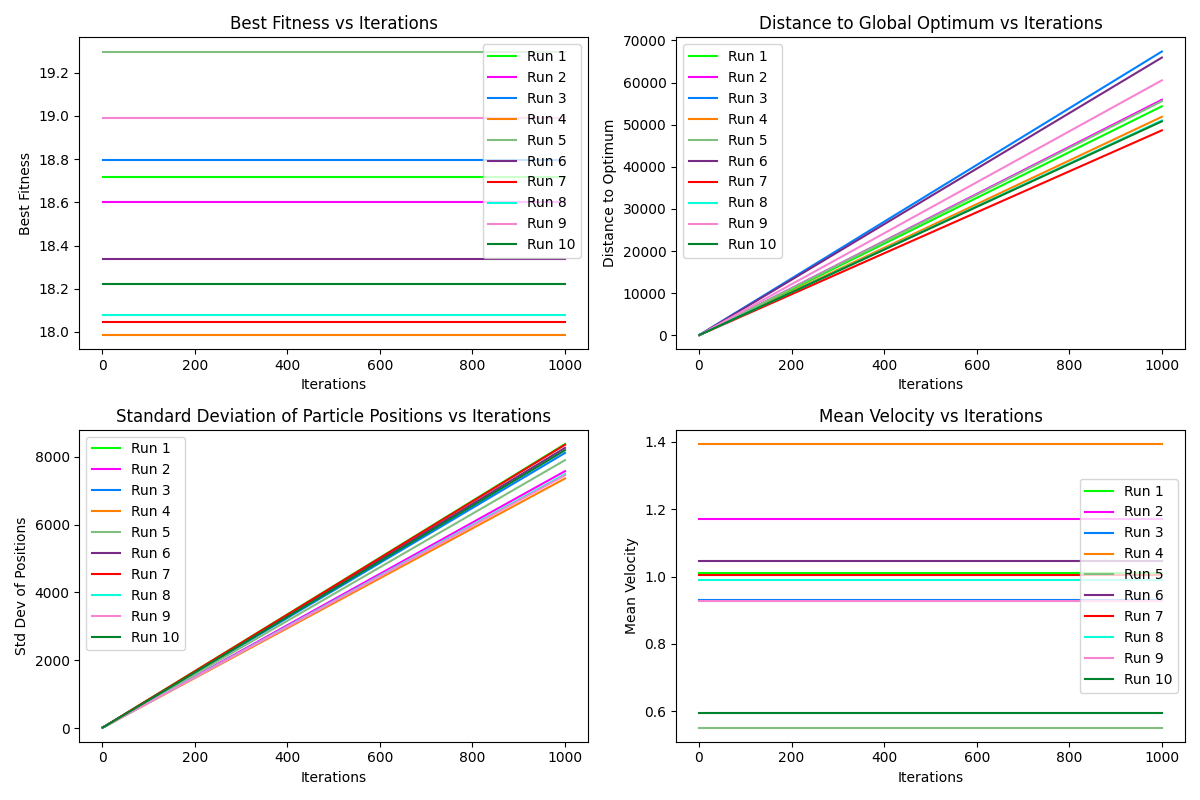
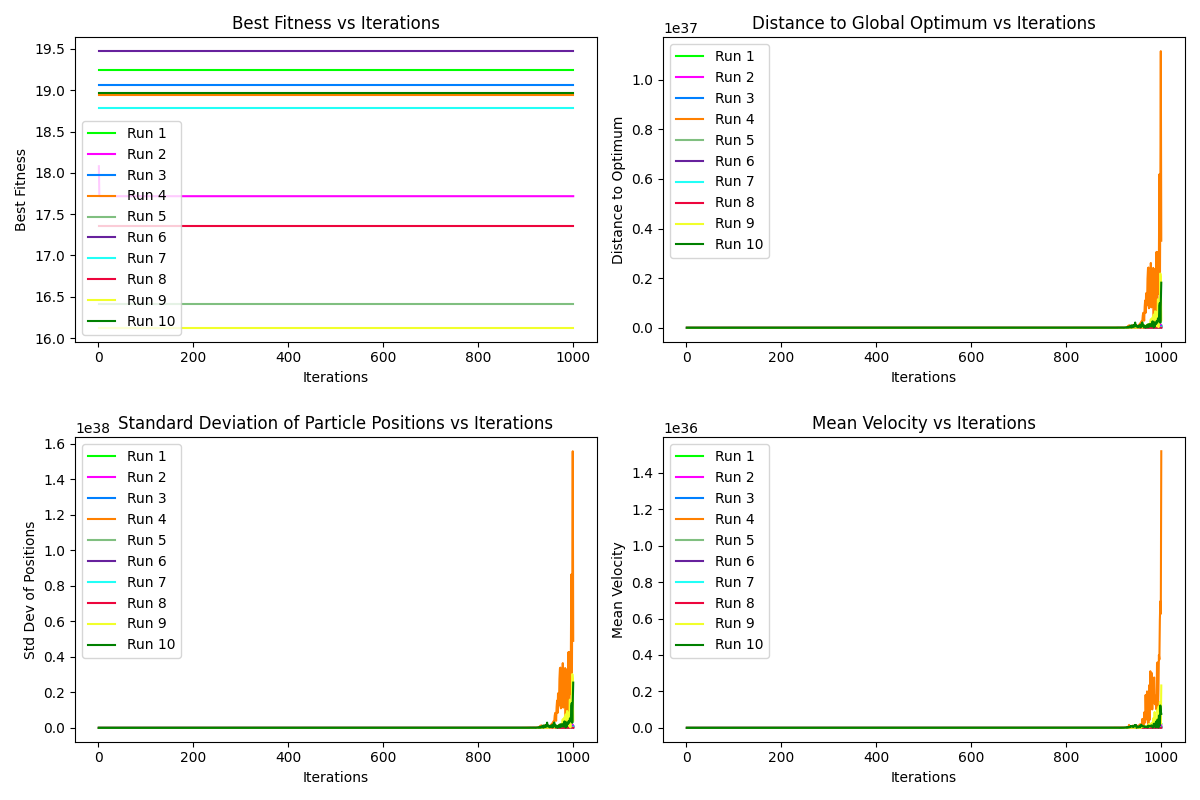
fixed stddev bug

diff --git a/run_experiments.py b/run_experiments.py
@@ -4,8 +4,6 @@ import metrics_and_visualization as mv
 from pso_variants import Particle, PSO, GlobalBestTopology, inertia_weight_PSO, RingTopology, StarTopology, RandomNeighbourhoodConnectivity
 import os
 
-# Requirement 6
-
 
 def run_experiment(swarm_size, num_runs=10, pso_type="standard",topology_type="gbest", file_name="metrics_std_pso.png"):
     num_particles = swarm_size
@@ -50,22 +48,38 @@ def run_experiment(swarm_size, num_runs=10, pso_type="standard",topology_type="g
     plt.savefig("results/" + file_name)
 
 
+#run_experiment(5,num_runs=1,file_name="metrics_std_pso.png")
+
 #part6 
 run_experiment(30,file_name="metrics_std_pso.png")
-run_experiment(30,pso_type="inertia",file_name="metrics_std_pso_weight adjust.png")
+run_experiment(30,pso_type="inertia",file_name="metrics_std_pso_weight_adjust.png")
 
-"""
+
 #part7
 run_experiment(20,file_name="metrics_std_pso_swarm20.png")
 run_experiment(100,file_name="metrics_std_pso_swarm100.png")
 run_experiment(200,file_name="metrics_std_pso_swarm200.png")
 
 #part8 
-run_experiment(30,pso_type="inertia",file_name="metrics_std_pso_weight adjust.png")
+run_experiment(30,pso_type="inertia",file_name="metrics_std_pso_weight_adjust.png")
 
 #part9 
 run_experiment(30, file_name="metrics_std_pso_topo_gbest.png")
 run_experiment(30,topology_type="ring", file_name="metrics_std_pso_topo_ring.png")
 run_experiment(30,topology_type="star", file_name="metrics_std_pso_topo_star.png")
 run_experiment(30,topology_type="rand", file_name="metrics_std_pso_topo_rand.png")
-"""
+
+#part10
+#try 100 ring inertia
+run_experiment(100,topology_type="ring",pso_type="inertia", file_name="metrics_weight_adjust_pso_topo_ring_swarm100.png")
+
+#try 200 star standard
+run_experiment(200,topology_type="star", file_name="metrics_std_pso_topo_star_swarm200.png")
+#try 20 star inertia
+run_experiment(20,topology_type="star",pso_type="inertia", file_name="metrics_weight_adjust_pso_topo_star_swarm20.png")
+#try 200 rand inertia
+run_experiment(200,topology_type="rand",pso_type="inertia", file_name="metrics_weight_adjust_pso_topo_rand_swarm200.png")
+#try 20 rand standard
+run_experiment(20,topology_type="rand", file_name="metrics_std_pso_topo_rand_swarm20.png")
+#try 20 ring standard
+run_experiment(20,topology_type="ring", file_name="metrics_std_pso_topo_ring_swarm20.png")

diff --git a/topologies.py b/topologies.py
@@ -14,11 +14,11 @@ class RingTopology:
         self.type = "ring"
         self.neighbour_list = []
 
-        self.neighbour_list.append(len(particles)-1,1)
+        self.neighbour_list.append([len(particles)-1,1])
         for i in range(1,len(particles)-1):
-            self.neighbour_list.append(i-1,i+1)
+            self.neighbour_list.append([i-1,i+1])
 
-        self.neighbour_list.append(len(particles)-2,0)
+        self.neighbour_list.append([len(particles)-2,0])
 
 class StarTopology:
     def __init__(self,particles):
@@ -28,8 +28,8 @@ class StarTopology:
     def update(self,particles):
         fitness_function = AckleyFunction(dimensions=len(particles[0].position))
         best_fitness = fitness_function.evaluate(particles[0].position)
-        current_best = particles[0]
-        for i in range(len(particles)):
+        current_best_index = 0
+        for i in range(1,len(particles)):
             fitness = fitness_function.evaluate(particles[i].position)
             if fitness < best_fitness:
                 best_fitness = fitness

diff --git a/pso_variants.py b/pso_variants.py
@@ -93,9 +93,9 @@ class PSO:
             mean = np.average(all_positions, axis=0)
             swarm_centre_of_mass.append(
                 np.linalg.norm(self.global_best_position - mean))
-
+   
             distances = np.linalg.norm(all_positions - mean, axis=1)
-            standard_deviation.append(stdev(distances))
+            standard_deviation.append(np.std(distances))
 
             mean_velocity = np.average(all_vectors, axis=0)
             sum_velocity = np.sum(np.abs(mean_velocity))
